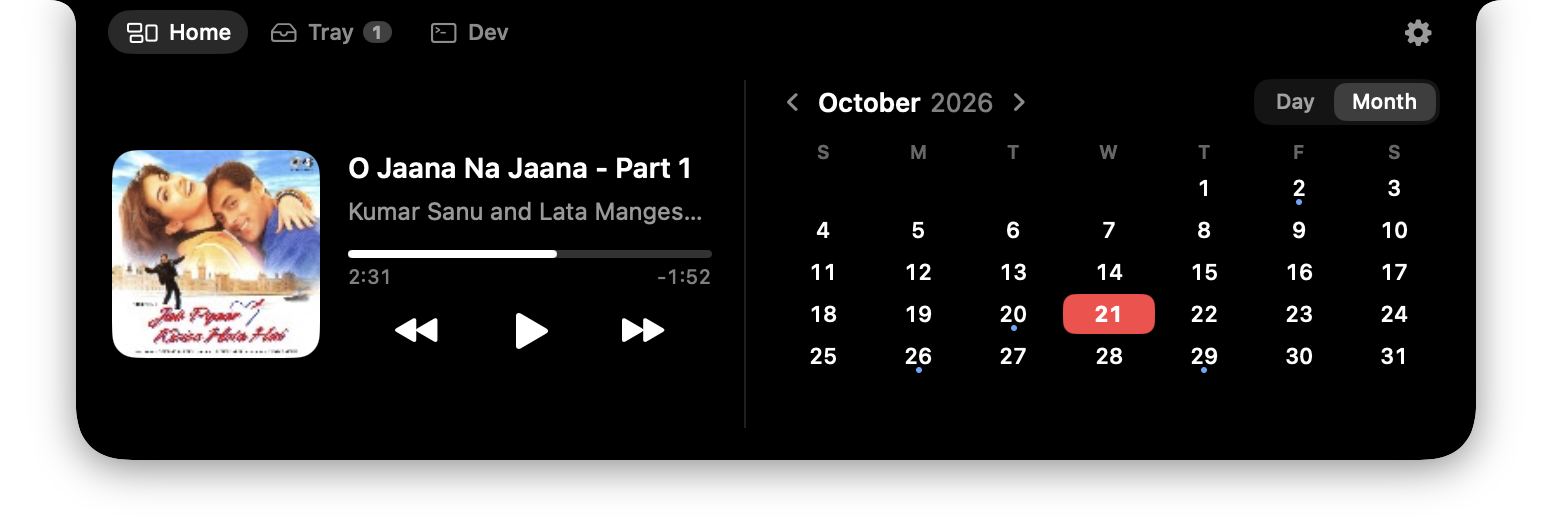
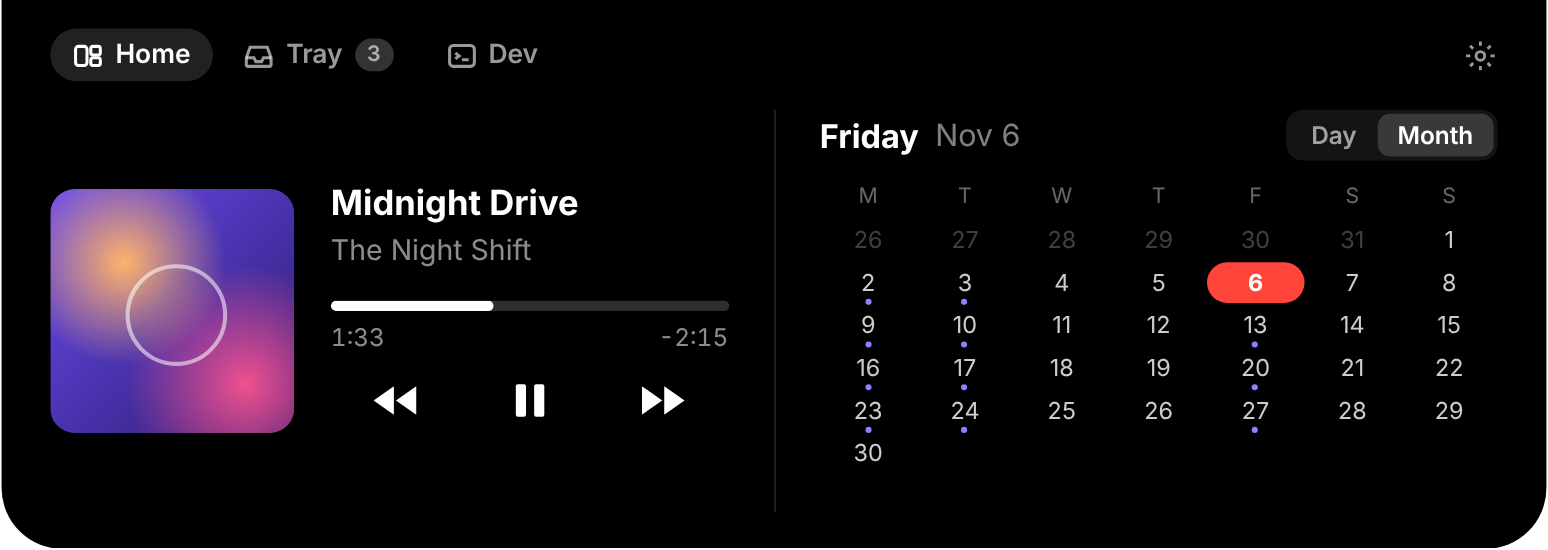
Replace the calendar month screenshot with the website's notch replica
Claude-Session: https://claude.ai/code/session_01H6HfURoczUPhznFv12FKDA

diff --git a/docs/index.html b/docs/index.html
@@ -961,7 +961,7 @@ footer a{text-decoration:none}footer a:hover{color:var(--fg)}
   const shots=[['screenshots/home-ai.png',"NotchDeck Home: Now Playing next to Claude's AI limits","Home: what’s playing on the left, how much of your Claude limits you’ve used on the right.",1427,458],
                ['screenshots/servers.png','Dev tab with CPU, disk and network stats and the servers running on the Mac','Dev: live stats, then every server running on your Mac with Open, Copy URL and Stop.',1427,858],
                ['screenshots/agents.png','Dev tab listing two finished Claude Code sessions','Agents: every Claude Code and Codex session, what it last did, and a button back to its terminal.',1427,516],
-               ['screenshots/calendar-month.png','Calendar month view with dots on busy days','Switch the calendar to Month for dots on your busy days.',1552,526],
+               ['screenshots/calendar-month.png','Calendar month view with dots on busy days','Switch the calendar to Month for dots on your busy days.',1548,550],
                ['screenshots/tray.png','File tray with an AirDrop tile','The Tray: files you dropped on the notch, ready to drag out or AirDrop.',1552,526],
                ['screenshots/settings.png','NotchDeck Settings window, Dev page','Settings: choose your tabs, Home widgets, Dev stats and lists, and how the notch opens.',1520,1104]];
   const gt=$('#g-tabs'),gi=$('#g-img'),gc=$('#g-cap');
